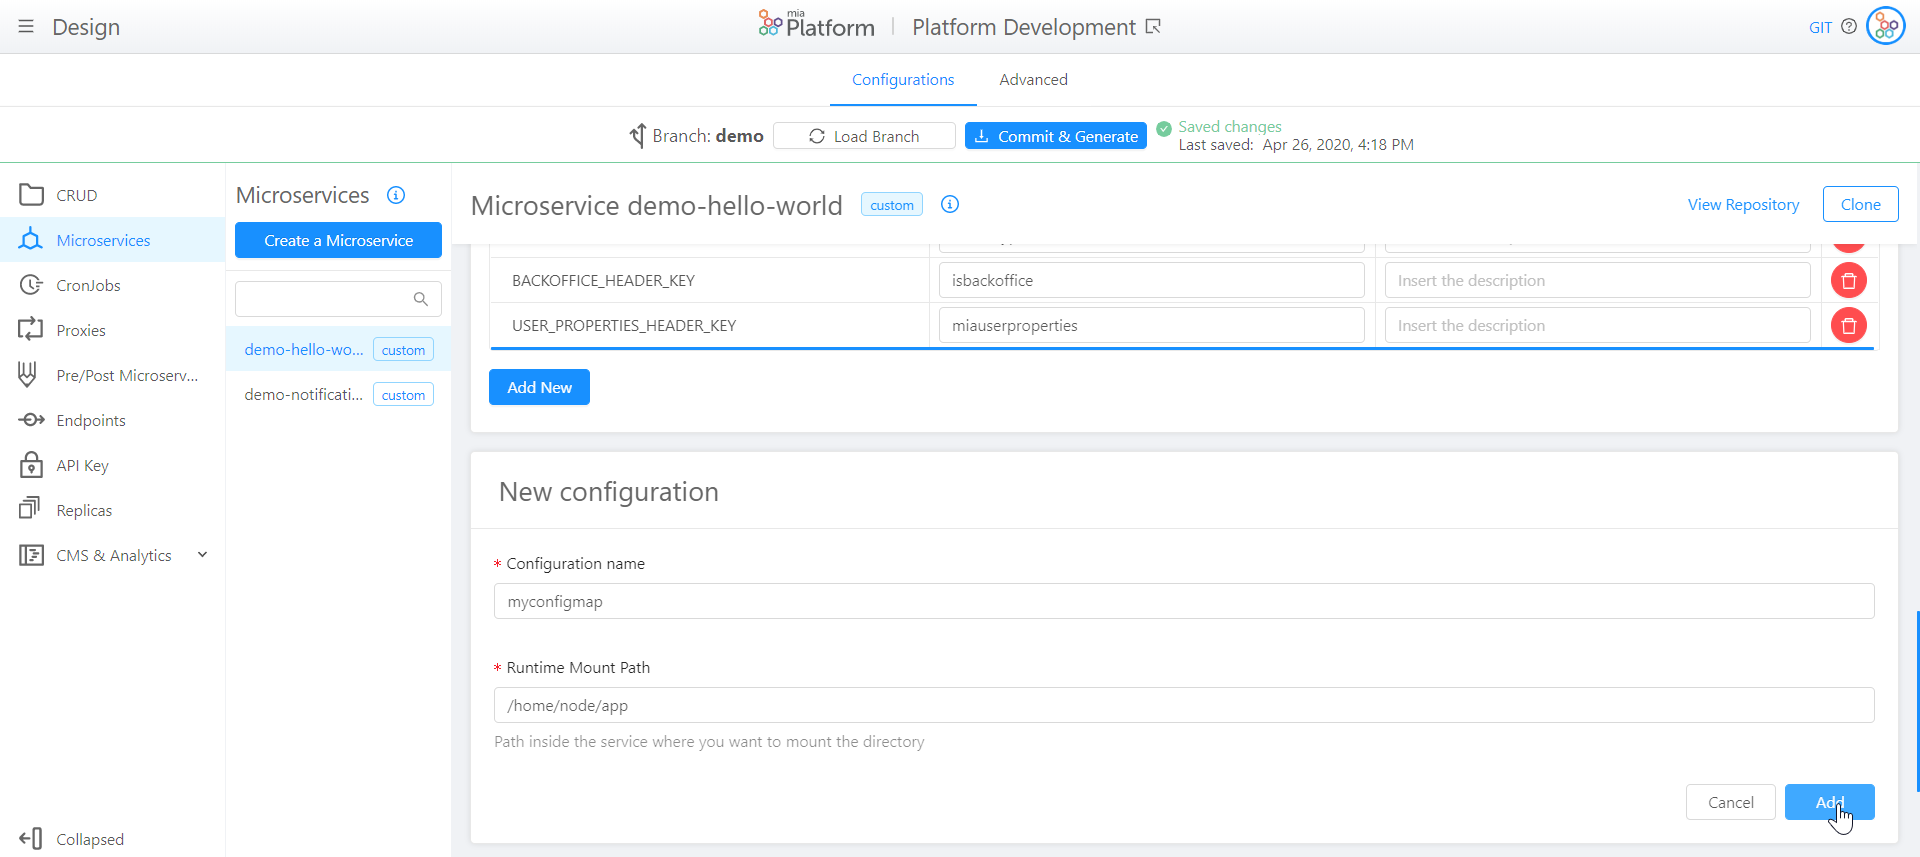
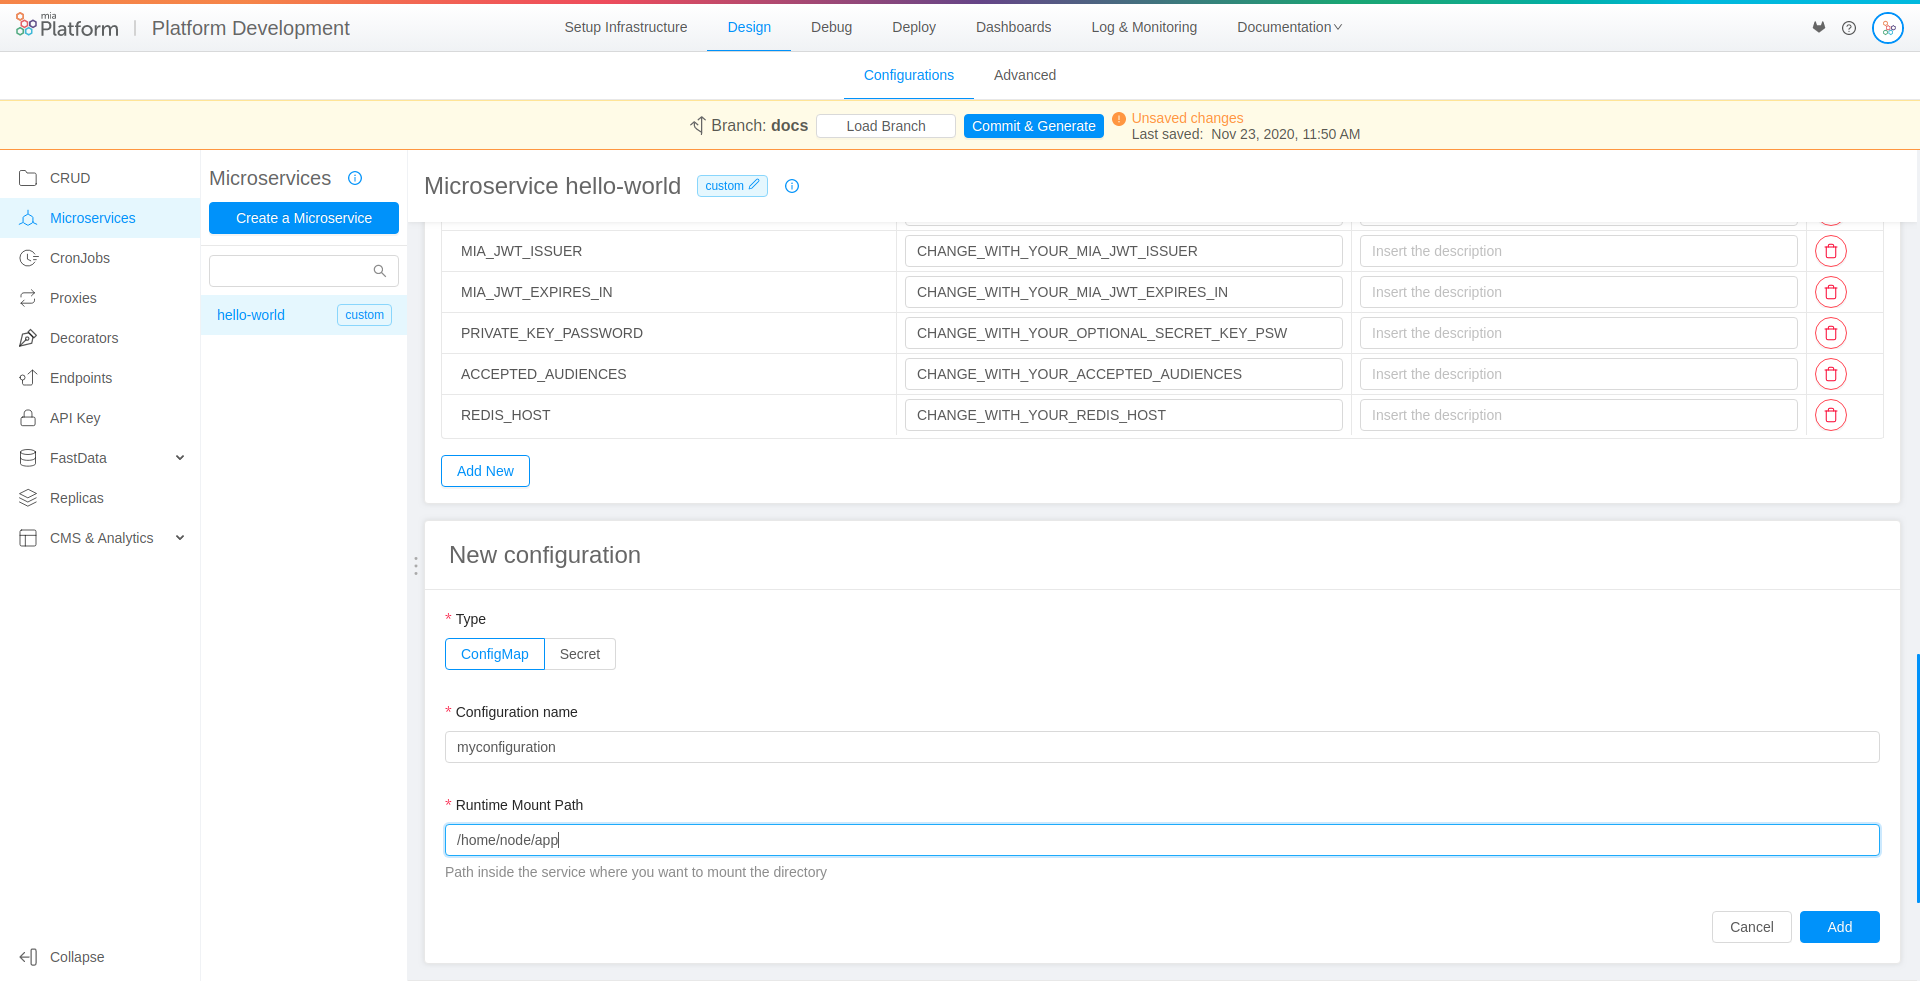
feat(configuration-secret) added paragraph for secrets and config maps

diff --git a/docs/development_suite/api-console/api-design/services.md b/docs/development_suite/api-console/api-design/services.md
@@ -146,7 +146,7 @@ In this section, you can manage, add and delete the environment variables associ
 
 ### Custom Configuration
 
-In this section, you can add configmaps in order to add files to your microservice without going to the advanced configuration. This feature can be usefull if your microservice requires a particular configuration that reads from a certain type of file (e.g. file service).
+In this section, you can add custom configurations to your microservice without the need of using the advanced service configuration. This feature can be useful in different occasions, either when your microservice requires a specific functionality or to have access to particular kubernetes files.
 
 In other words, if your microservice can not be managed in a usable way from environment variables, you can use Custom Configuration to add a configuration to your microservice.
 
@@ -154,17 +154,64 @@ In other words, if your microservice can not be managed in a usable way from env
 You can use Custom Configuration if you want to write deployment files with a maximum of one container.
 :::
 
+There are two kinds of custom configurations: **ConfigMaps** and **Secrets**.
+
+#### Add a Configuration
+
  With the button 'Add a Configuration', you can add a custom configuration by defining:
+
+ * **Type** (*required*): This is the type of your configuration: *configmap* or *secret*.
 
 * **Configuration Name** (*required*): This is the name of your configuration.
 
 * **Runtime Mount Path** (*required*): Path inside the service where you want to mount the directory.
 
- ![service-add-configuration](img/service-add-configuration.png)
+![service-add-configuration](img/service-add-configuration.png)
 
-For each configuration created, a new card will be visible. You can push 'add file' to generate a .json or .yml file to write your custom configurations. With the button 'Delete File' you can cancel a file inside your custom configuration.
+For each configuration created, a new card will be visible.
+
+#### ConfigMaps
+
+You can mount files to your microservice using *configmaps*. This feature can be useful if your microservice requires a particular configuration that can be read from a certain type of file (e.g. a complex configuration file that can't be provided via simple environment variables).
+
+Check out the files service [example](https://docs.mia-platform.eu/docs/runtime_suite/files-service/configuration) to further understand the role of configmaps in microservices.
+
+You can click _Add file_ to generate a new custom file (e.g. a JSON or YAML file, but could be anything you need) and start writing your custom configurations. With the _Delete File_ button you can remove the file from your custom configuration.
 
  ![service-add-file-new](img/service-add-file-new.png)
+
+#### Secrets
+
+You can use this type of configuration in order to mount Kubernetes Secrets to your microservice.
+Kubernetes secrets let you store and manage sensitive information (such as passwords, OAuth tokens, ssh keys, etc).
+
+:::note
+Check out the official [Kubernetes documentation](https://kubernetes.io/docs/concepts/configuration/secret/) for more information about secrets.
+:::
+
+
+:::warning
+Secrets associated to microservices must exists on your Kubernetes namespace.
+
+:::
+If your projects uses `mlp`, the Mia-Platform cli deploy tool, you can configure the `mlp.yaml` file inside your project configuration repository to generate secrets for you on the namespace.
+
+To release custom secrets with mlp, add these lines to the mlp.yaml file:
+```
+secrets:
+  - name: "client-credential-private-key"
+    when: "always"
+    data:
+      - from: "file"
+        file: "/tmp/private.key"
+```
+Once you have created a secret file on your kubernetes namespace, you can use this feature to associate it to your microservice.
+
+When secrets are linked to a microservice, its deployment files are accordingly modified to automatically mount your secret files on kubernetes. This will allow you to use their private content directly from your microservice.
+
+:::info
+Once you'll add a secret to one of your microservices, the secret's name will be recorded and you'll be able to reuse it by easily adding the same secret to multiple microservices.
+:::
 
 ### Advanced Configuration
 
